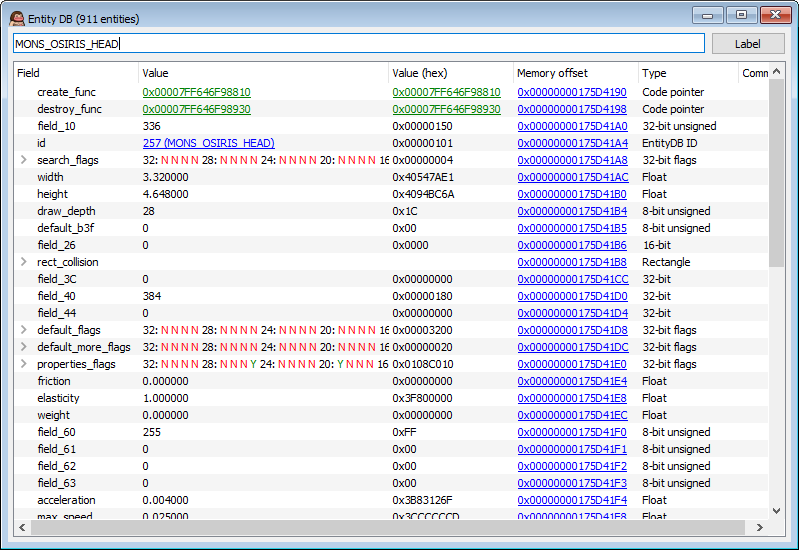
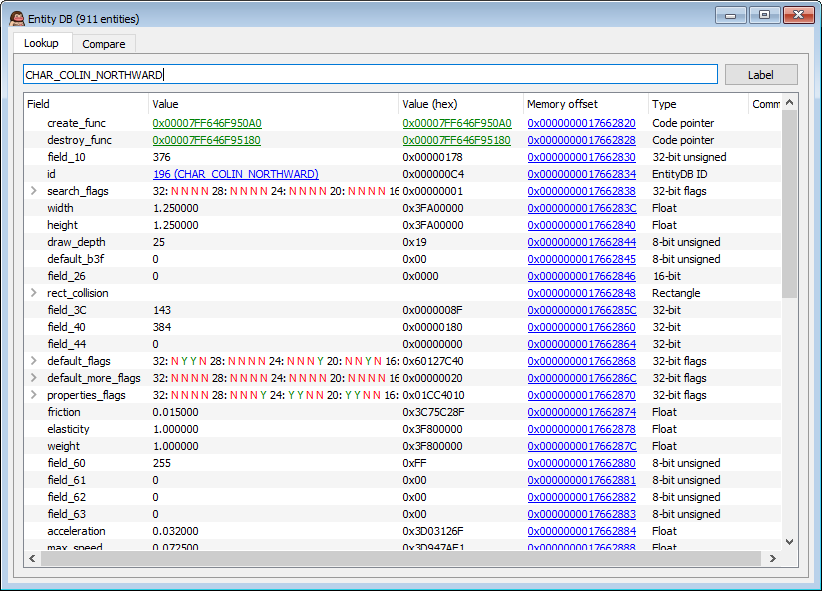
update readme and plugin version

Changed region(s): [[0.0, 0.0, 1.0, 0.9891]]

diff --git a/include/pluginmain.h b/include/pluginmain.h
@@ -6,7 +6,7 @@
 #else
 #define PLUGIN_NAME "UnnamedPlugin"
 #endif // PLUGIN_NAME
-#define PLUGIN_VERSION 1
+#define PLUGIN_VERSION 2
 
 #include <windows.h>
 

diff --git a/README.md b/README.md
@@ -32,9 +32,17 @@ The State and Entity windows have a refresh button, and a way to automatically r
 
 ## Entity DB
 
-The search bar at the top allows you to enter the numerical value of the type to look up, or you can type the name (start with MONS\_ to see all monsters, for example).
+The search bar at the top allows you to enter the numerical value of the type to look up, or you can type the name.
 
 ![EntityDB](/resources/docs_entitydb.png)
+
+Click the 'Compare' tab and choose a field from the dropdown to see a list of all the entities and the value of the chosen field.
+
+![EntityDB](/resources/docs_entitydb_compare.png)
+
+Click the 'Group by value' checkbox to get a list of the unique values of the field, and which entities belong to that group.
+
+![EntityDB](/resources/docs_entitydb_compare_grouped.png)
 
 ## State
 
